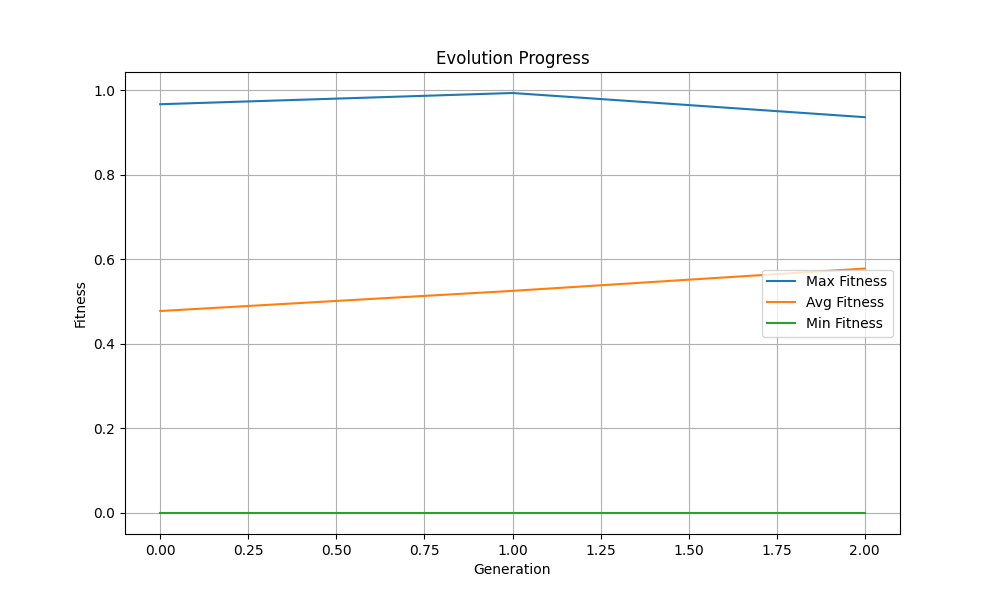
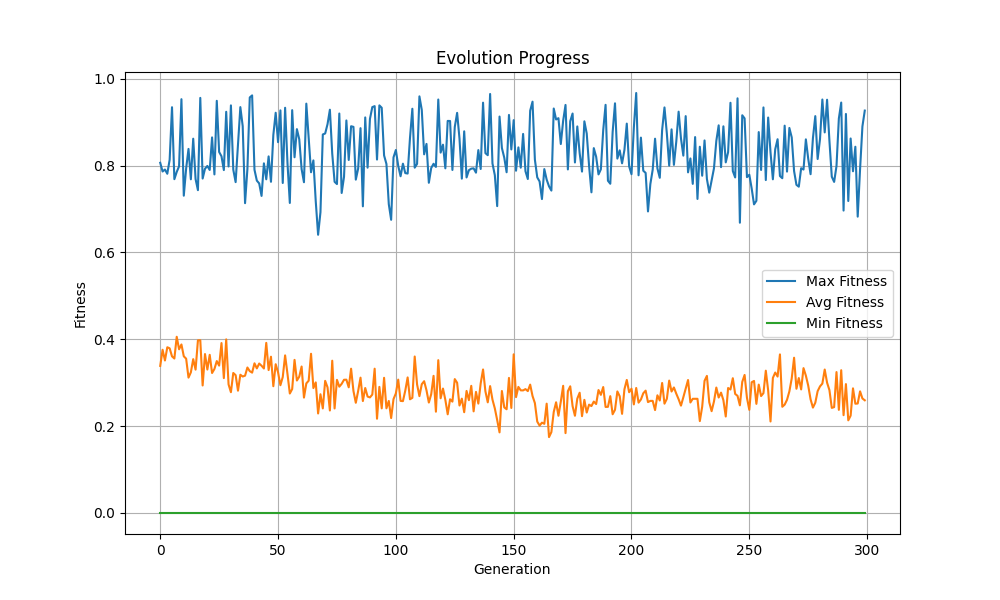
latest figure

diff --git a/config/settings.py b/config/settings.py
@@ -21,14 +21,14 @@ SOURCE_SIZE = 16
 ANIMAT_MAX_SPEED = 2.8
 SENSOR_RANGE = 200
 BATTERY_MAX = 200  # Paper specifies maximum and initial level of 200
-BATTERY_DECAY_RATE = 0.3  # Paper specifies decreases by 1 each time step
+BATTERY_DECAY_RATE = 1  # Paper specifies decreases by 1 each time step
 ANIMAT_MAX_LIFESPAN = 800 # Maximum simulation steps for fitness evaluation
 
 #Genetic algorithm settings
 POPULATION_SIZE = 100
 MUTATION_RATE = 0.04  # 4% per bit (Note: current mutation is per-gene)
 CROSSOVER_RATE = 0.5
-NUM_GENERATIONS = 3
+NUM_GENERATIONS = 300
 TOURNAMENT_SIZE = 5
 
 #Sensorimotor link settings
